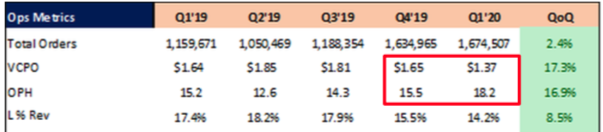
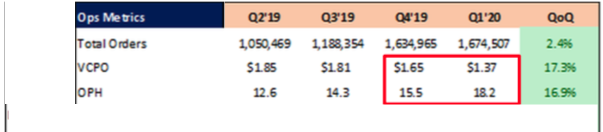
TEST
TEST

diff --git a/index.html b/index.html
@@ -289,7 +289,7 @@ ShipBob is a tech enabled third party logistics provider ( 3PL)
 </li></ul>
 <p>As we get larger and our processes and software gets better - we should be able to show operational efficiencies by <b>reducing our VCPO</b>. This means every year, our fulfillment center associates should be able to pick, pack and ship more orders per hour than they did in the year prior. </p>
 <br>
-<p><img src='What%20is%20ShipBob%20%3F/46F9B5AA-CDBF-4B5D-BB7A-03797B82E6AA.png'></p>
+<p><img src='What%20is%20ShipBob%20%3F/VCPO.png'></p>
 <br>
 <blockquote>
 <p>In 2020 Q1 our VCPO is closer to $1.37 - an improvement of 18% over Q4 2019. This means every order that we have shipped in Q1 2020 cost us <u>18% less in labor costs compared to 2019</u> ! This is operational efficiency at work! </p>
